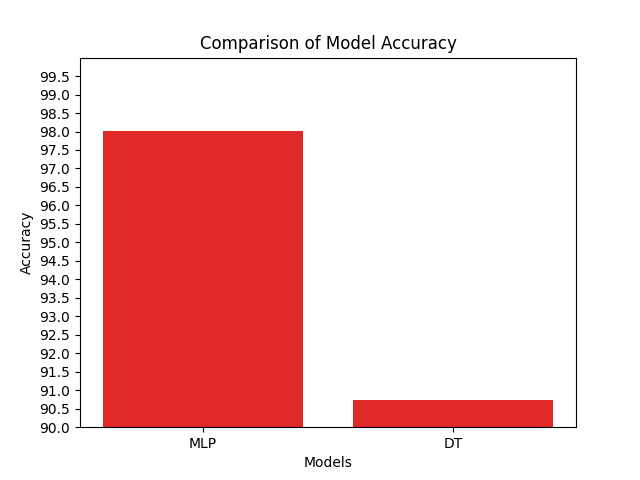
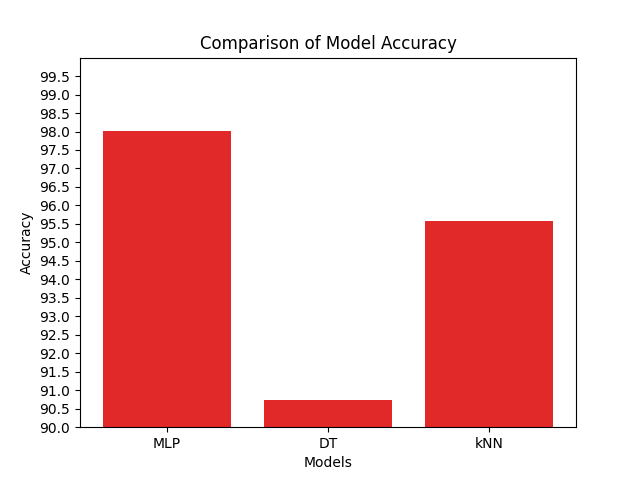
updated graphs to include knn, tried clustering and failed

diff --git a/model_assessment.py b/model_assessment.py
@@ -356,10 +356,8 @@ def compare_best_models():
 
     # get list of kNN params
     knn_optimal_params = knn_results[['param_n_neighbors', 'param_metric']].iloc[0]
-
     knn_params = knn_optimal_params.to_list()
     knn_params[0] = int(knn_params[0])  # ensure k is int
-
     print(f"kNN Params: {knn_params}")
 
     # get list of MLP params
@@ -397,34 +395,34 @@ def compare_best_models():
     dt_y_pred = decision_tree_decision(dt, x_test)
 
     # get model accuracies
-    # knn_accuracy = metrics.accuracy_score(y_test, knn_y_pred)
+    knn_accuracy = metrics.accuracy_score(y_test, knn_y_pred)
     mlp_accuracy = metrics.accuracy_score(y_test, mlp_y_pred)
     dt_accuracy = metrics.accuracy_score(y_test, dt_y_pred)
-    # print(f"KNN Accuracy: {knn_accuracy * 100:.2f}%")
+    print(f"KNN Accuracy: {knn_accuracy * 100:.2f}%")
     print(f"MLP Accuracy: {mlp_accuracy * 100:.2f}%")
     print(f"DT Accuracy: {dt_accuracy * 100:.2f}%")
 
     # get model precision
-    # knn_precision = metrics.precision_score(y_test, knn_y_pred, average="weighted")
+    knn_precision = metrics.precision_score(y_test, knn_y_pred, average="weighted")
     mlp_precision = metrics.precision_score(y_test, mlp_y_pred, average="weighted")
     dt_precision = metrics.precision_score(y_test, dt_y_pred, average="weighted")
-    # print(f"KNN Precision: {knn_precision * 100:.2f}%")
+    print(f"KNN Precision: {knn_precision * 100:.2f}%")
     print(f"MLP Precision: {mlp_precision * 100:.2f}%")
     print(f"DT Precision: {dt_precision * 100:.2f}%")
 
     # get model recall
-    # knn_recall = metrics.recall_score(y_test, knn_y_pred, average="weighted")
+    knn_recall = metrics.recall_score(y_test, knn_y_pred, average="weighted")
     mlp_recall = metrics.recall_score(y_test, mlp_y_pred, average="weighted")
     dt_recall = metrics.recall_score(y_test, dt_y_pred, average="weighted")
-    # print(f"KNN Recall: {knn_recall * 100:.2f}%")
+    print(f"KNN Recall: {knn_recall * 100:.2f}%")
     print(f"MLP Recall: {mlp_recall * 100:.2f}%")
     print(f"DT Recall: {dt_recall * 100:.2f}%")
 
     # get model f1 score
-    # knn_f1 = metrics.f1_score(y_test, knn_y_pred, average="weighted")
+    knn_f1 = metrics.f1_score(y_test, knn_y_pred, average="weighted")
     mlp_f1 = metrics.f1_score(y_test, mlp_y_pred, average="weighted")
     dt_f1 = metrics.f1_score(y_test, dt_y_pred, average="weighted")
-    # print(f"KNN F1 score: {knn_f1 * 100:.2f}%")
+    print(f"KNN F1 score: {knn_f1 * 100:.2f}%")
     print(f"MLP F1 score: {mlp_f1 * 100:.2f}%")
     print(f"DT F1 score: {dt_f1 * 100:.2f}%")
 
@@ -438,11 +436,10 @@ def compare_best_models():
     # - ROC Curve?
     # - Absolute Mean Error?
 
-    bar_x_models = ['MLP', 'DT']
+    bar_x_models = ['MLP', 'DT', 'kNN']
 
     # Accuracy comparison
-    bar_acc_x = ['MLP', 'DT']
-    bar_acc_y = [mlp_accuracy * 100, dt_accuracy * 100]
+    bar_acc_y = [mlp_accuracy * 100, dt_accuracy * 100, knn_accuracy * 100]
     plt.xlabel("Models")
     plt.ylabel("Accuracy")
     plt.ylim(90, 100)
@@ -450,13 +447,13 @@ def compare_best_models():
     # plt.xlim(0.2)
     # plt.figure(figsize=(5,5))
     plt.title("Comparison of Model Accuracy")
-    plt.bar(bar_acc_x, bar_acc_y, color='#E22929')
+    plt.bar(bar_x_models, bar_acc_y, color='#E22929')
     plt.savefig("graphs/models_accuracy")
     plt.show()
 
 
     # Precision comparison
-    bar_prec_y = [mlp_precision * 100, dt_precision * 100]
+    bar_prec_y = [mlp_precision * 100, dt_precision * 100, knn_precision * 100]
     plt.xlabel("Models")
     plt.ylabel("Precision")
     plt.ylim(88, 100)
@@ -468,7 +465,7 @@ def compare_best_models():
     plt.show()
 
     # Recall comparison
-    bar_recall_y = [mlp_recall * 100, dt_recall * 100]
+    bar_recall_y = [mlp_recall * 100, dt_recall * 100, knn_recall * 100]
     plt.xlabel("Models")
     plt.ylabel("Recall")
     plt.ylim(88, 100)
@@ -480,7 +477,7 @@ def compare_best_models():
     plt.show()
 
     # F1 score comparison
-    bar_f1_y = [mlp_f1 * 100, dt_f1 * 100]
+    bar_f1_y = [mlp_f1 * 100, dt_f1 * 100, knn_f1 * 100]
     plt.xlabel("Models")
     plt.ylabel("F1 Score")
     plt.ylim(88, 100)
@@ -492,7 +489,24 @@ def compare_best_models():
     plt.show()
 
     # create line chart to show all next to each other
+    x = np.arange(4)
+    y1 = [mlp_accuracy*100, mlp_precision*100, mlp_recall*100, mlp_f1*100]
+    y2 = [dt_accuracy*100, dt_precision*100, dt_recall*100, dt_f1*100]
+    y3 = [knn_accuracy*100, knn_precision*100, knn_recall*100, knn_f1*100]
+    width = 0.2
 
+    # plot data in grouped bar chart
+    plt.bar(x - 0.2, y1, width, color='cyan')
+    plt.bar(x, y2, width, color='orange')
+    plt.bar(x + 0.2, y3, width, color='green')
+    plt.ylim(90, 100)
+    plt.yticks(np.arange(90, 100, 0.5))
+    plt.xticks(x, ['Accuracy', 'Precision', 'Recall', 'F1'])
+    plt.xlabel("Models")
+    plt.ylabel("Percentage")
+    plt.legend(['MLP', 'DT', 'kNN'])
+    plt.savefig("graphs/models_group_bar")
+    plt.show()
 
 
     # subplot confussion matrix of mlp, dt and knn
@@ -506,7 +520,7 @@ def compare_best_models():
     dt_cm.plot(ax=ax[1])
     ax[1].set_title("DT")
 
-    knn_cm = metrics.ConfusionMatrixDisplay(confusion_matrix=metrics.confusion_matrix(y_test, dt_y_pred)) # cahnge to have knn predicted
+    knn_cm = metrics.ConfusionMatrixDisplay(confusion_matrix=metrics.confusion_matrix(y_test, knn_y_pred))
     knn_cm.plot(ax=ax[2])
     ax[2].set_title("kNN")
 

diff --git a/hierarchical_clustering.py b/hierarchical_clustering.py
@@ -1,0 +1,56 @@
+from data_handling import dataset_split
+from sklearn.cluster import AgglomerativeClustering
+from scipy.cluster.hierarchy import linkage, dendrogram
+import matplotlib.pyplot as plt
+from sklearn import metrics
+
+
+def agglomerative_clustering(x, y, n_c, metric):
+    print("Hierarchical Clustering")
+
+    agglomerative_cluster = AgglomerativeClustering(n_clusters= 2, metric= 'euclidean', linkage='ward')
+    # agglomerative_cluster.
+
+def test(training_data, features):
+    # https://www.geeksforgeeks.org/machine-learning/hierarchical-clustering/
+    # https://www.geeksforgeeks.org/machine-learning/implementing-agglomerative-clustering-using-sklearn/
+    # https://www.geeksforgeeks.org/machine-learning/hierarchical-clustering-with-scikit-learn/
+    # https://developer.ibm.com/tutorials/awb-implement-hierarchical-clustering-python/
+    # https://www.datacamp.com/tutorial/introduction-hierarchical-clustering-python
+
+    complete_clustering = linkage(training_data, method="ward", metric="euclidean")
+    dendrogram(complete_clustering, color_threshold=15)
+    plt.show()
+
+    hierarchical_cluster = AgglomerativeClustering(n_clusters=10, linkage="ward")
+
+    labels = hierarchical_cluster.fit_predict(training_data) # what cluster each row has been put into
+    print(labels)
+    print(labels.shape)
+    print(features.shape)
+
+    if len(labels) == len(features):
+        for i in range(len(labels)):
+            print(labels[i], features[i]) # print cluster and actual class
+
+    print(metrics.accuracy_score(features, labels) * 100)
+    print(metrics.adjusted_rand_score(features, labels) * 100)
+    print(metrics.silhouette_score(training_data, labels) * 100)
+
+
+
+def tester():
+    training_set, test_set = dataset_split()
+    x_train = training_set.drop(['Encoded_sign'], axis=1).to_numpy()
+    y_train = training_set['Encoded_sign'].to_numpy()
+
+    training_data = training_set.drop(['Encoded_sign'], axis=1).to_numpy()
+
+
+
+    # agglomerative_clustering(x_train, y_train)
+    test(x_train, y_train)
+
+
+if __name__ == '__main__':
+    tester()

diff --git a/k_means.py b/k_means.py
@@ -23,7 +23,7 @@ def k_mean(X, y, k):
     cluster = KMeans(n_clusters=k).fit(X)
     
     predictions = cluster.predict(X)
-    
+
     centroids = cluster.cluster_centers_ 
     
     
